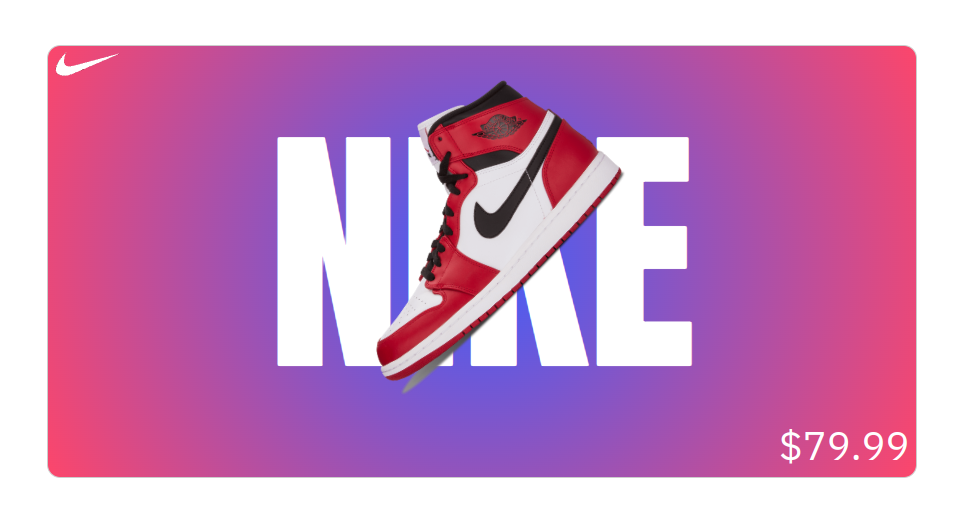
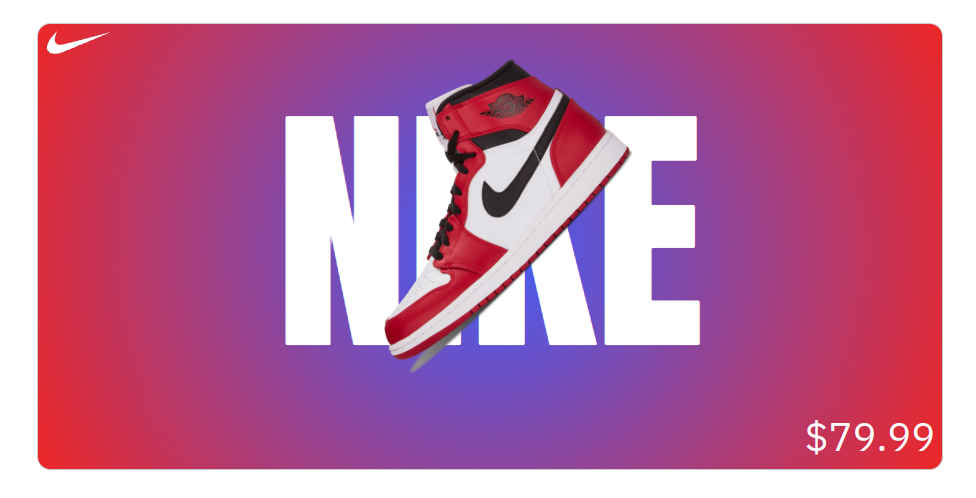
Change gradient to use red

diff --git a/style.css b/style.css
@@ -7,12 +7,12 @@
 .grid-container {
     display: grid;
     grid-template-columns: auto auto auto;
-    
+
     align-items: stretch;
 }
 
 .grid-item {
-    
+
     font-size: 30px;
     text-align: center;
 }
@@ -31,8 +31,9 @@
     margin: 10px;
     margin-top: 100px;
     height: 50%;
+
     background: rgb(63, 94, 251);
-    background: radial-gradient(circle, rgba(63, 94, 251, 1) 0%, rgba(252, 70, 107, 1) 100%);
+    background: radial-gradient(circle, rgba(63, 94, 251, 1) 0%, rgba(237, 39, 39, 1) 100%);
 }
 
 .card-body {
